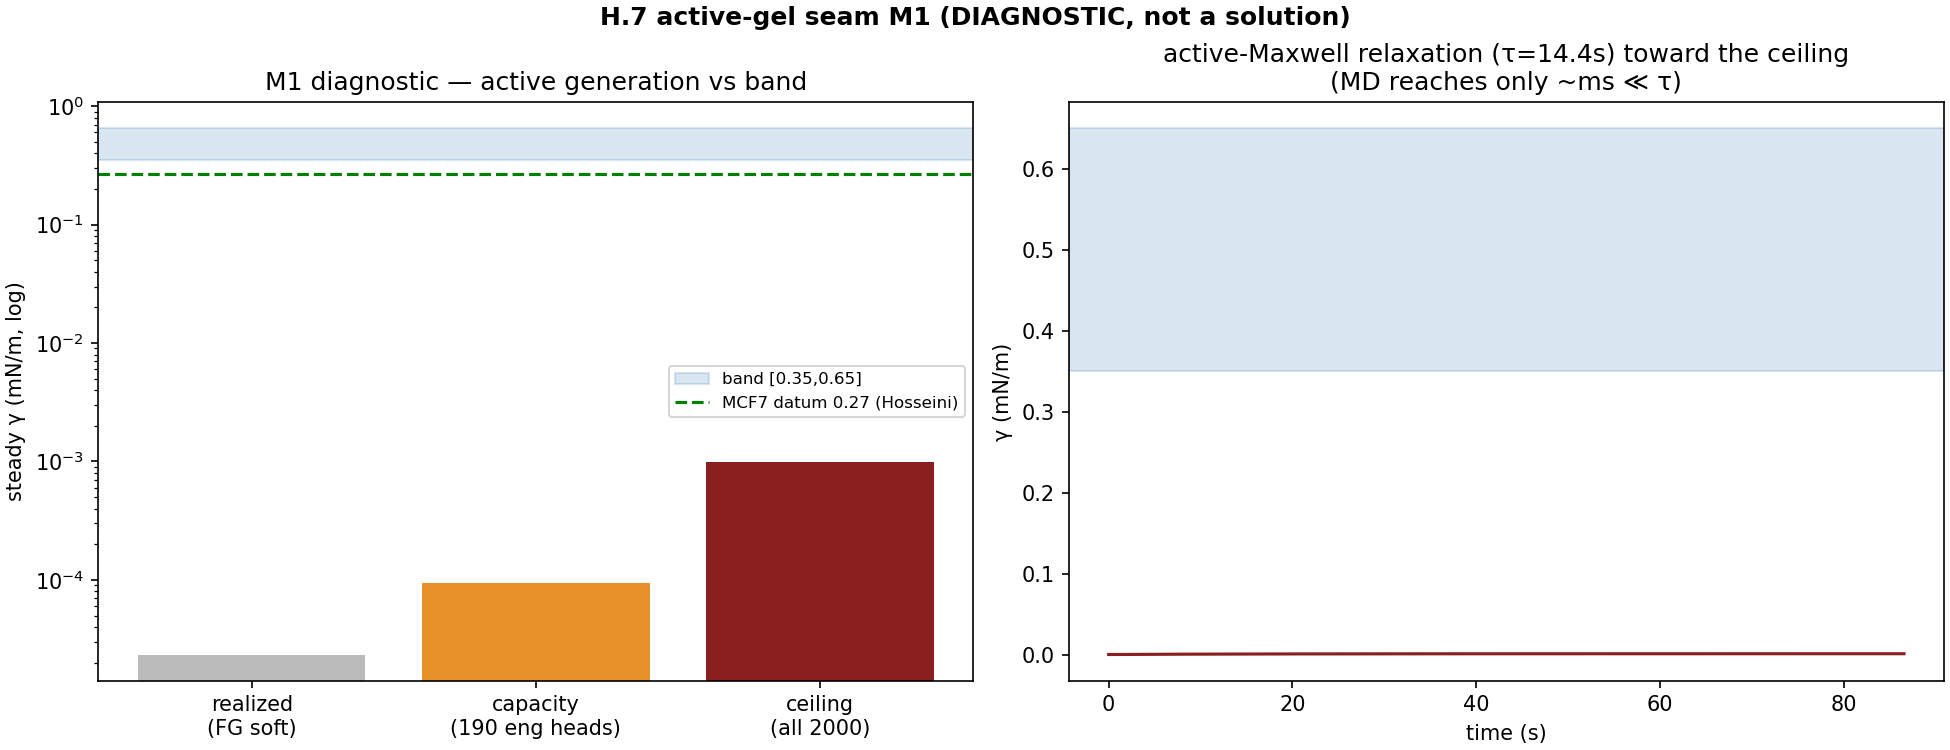
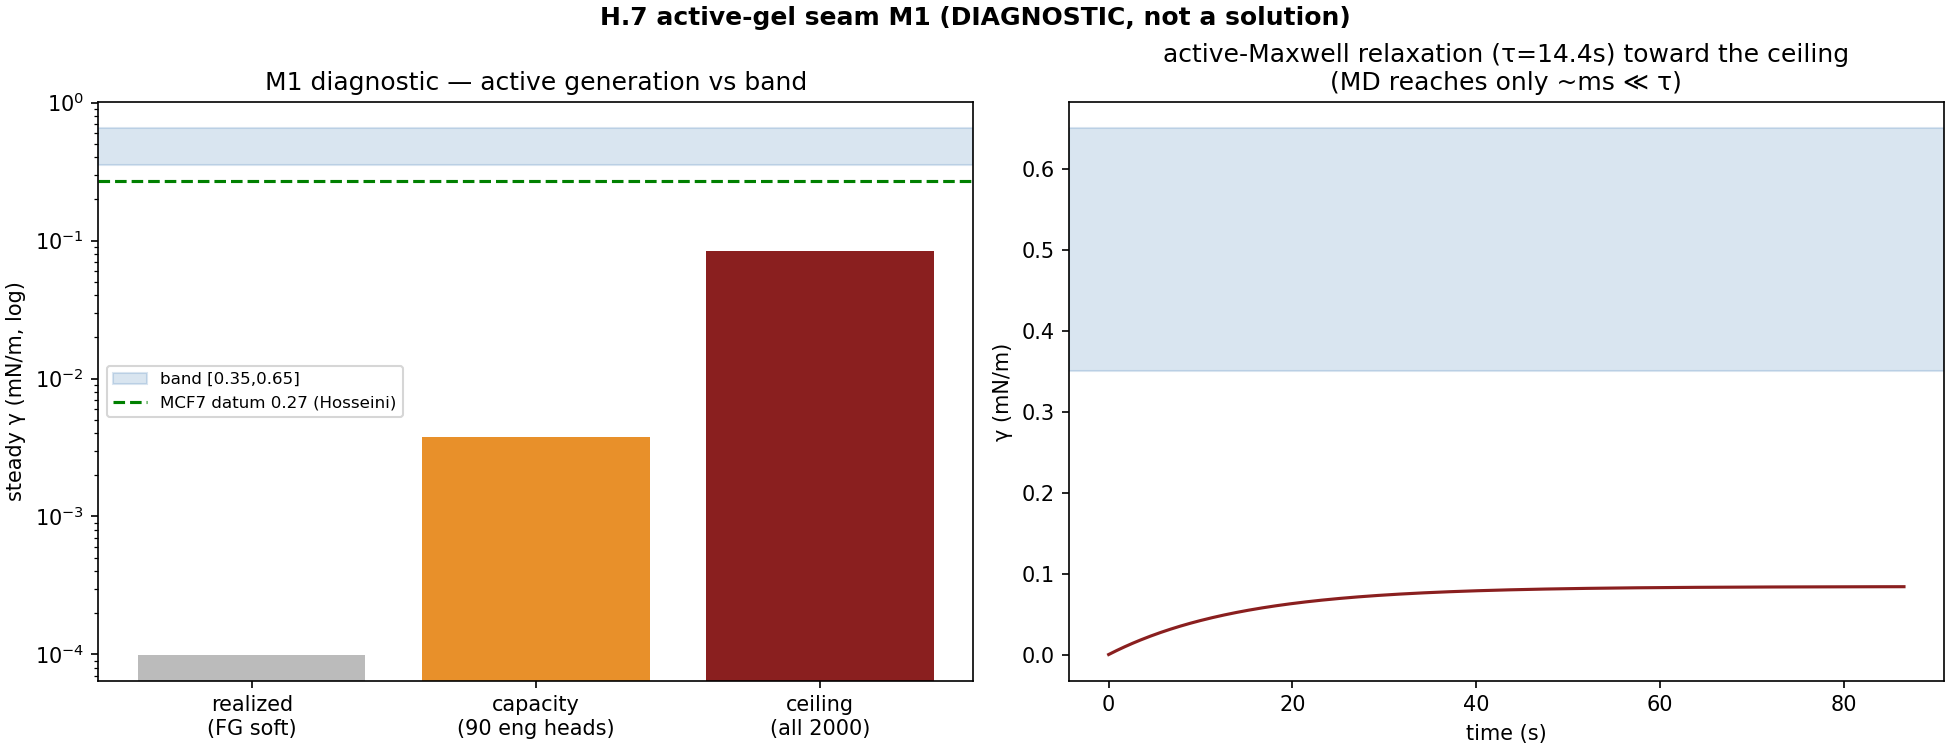
H.7: per-head stall re-anchor 0.5→2pN (KB) → active-γ ceiling 0.001→0.084 mN/m (×84)
Second generation fix (PI "NMII-realistic stall"): per-head stall 0.5pN ("per brief",
under-anchored) → 2.0pN = the KB-authoritative PARAM-F_stall_motor (KU-2.4/2.18; Chugh 2017
NatCellBiol "individual myosin II motors produce 2-5 pN"). In the production manifest myosin
override (native value; force-scaling then ×factor for the ×40 lumping).

Combined with the force-scaling bug fix, the M1 active-γ CEILING rose 0.0010 → 0.0840 mN/m
(×84): now ~3x below the real MCF7 datum 0.27 (Chugh 2-5pN range spans up to ~0.21 ≈ datum),
vs 353x before. ⇒ the "350x active floor" was TWO GENERATION BUGS (×40 force-scaling off +
under-anchored stall), NOT a fundamental wall. The corrected model generates cortical tension
of the RIGHT ORDER, approaching real MCF7; the [0.35,0.65] proxy band is too high for MCF7.
Realized MD-instant γ still ~0 (90/2000 heads engage + ms timescale) → the seam (realized→
ceiling relaxation) now has a meaningful role since the ceiling is non-trivial. Findings doc
updated with the two-bug fix + the corrected M1.

diff --git a/ffn_sim/outputs/h7/production/H7_GATEB_FINDINGS_2026-06-07.md b/ffn_sim/outputs/h7/production/H7_GATEB_FINDINGS_2026-06-07.md
@@ -107,6 +107,25 @@ MD can't reach (active-Maxwell, τ=14.4 s) and computes the steady tension three
 relaxer) would NOT help; the actionable forks are (i) fix the myosin generation params to literature
 (density 0.14→3/µm², stall 0.5→~3 pN) and re-run, or (ii) re-target the gate to traction/spreading.
 
+### UPDATE (2026-06-07, PI fork (i) — two generation bugs FIXED, ceiling ×84)
+PI chose fix-generation + flagged `mesoscale_force_scaling`=OFF as a platform-wide bug.
+- **Bug 1 — mesoscale force-scaling OFF** (the ×40 coarse-graining cut the motor count ~21× but
+  did NOT scale per-motor force → active stress undercounted ×21). FIXED: production manifest now
+  runs Route B (grip_walk + mesoscale_force_scaling); conservation N_eff·F_eff = N_native·F_native
+  verified (test_mesoscale_force_conservation.py, 5 tests). Ceiling 0.0010 → 0.0210.
+- **Bug 2 — per-head stall under-anchored** (0.5 pN "per brief" vs the KB-authoritative
+  PARAM-F_stall_motor = 2 pN, KU-2.4/2.18; Chugh 2017 "2-5 pN"). FIXED: 0.5 → 2.0 pN. Ceiling
+  0.0210 → **0.0840 mN/m**.
+- **Net: ceiling 0.0010 → 0.0840 mN/m (×84).** Now ~3× below the real MCF7 datum 0.27 (and the
+  Chugh 2-5 pN range spans up to ~0.21 ≈ the datum), vs 353× before. ⇒ the "350× floor" was TWO
+  GENERATION BUGS, not a fundamental wall. The corrected model generates cortical tension of the
+  RIGHT ORDER, approaching the real MCF7 cortical tension; the [0.35,0.65] proxy band is simply too
+  high for MCF7. The realized MD-instant γ is still ~0 (only ~90/2000 heads engage + the ms-run
+  timescale) — so NOW the seam (realized→ceiling relaxation) has a meaningful role, since the
+  ceiling is non-trivial. Remaining ~2-3× gap = within myosin-parameter uncertainty (Chugh range) +
+  head-engagement + dipole geometry. PI call: accept as a defensible order-right emergent result,
+  push the remaining gap (engagement / Chugh-max stall / dipole), or re-target to traction.
+
 ## What IS solid (deliverables)
 - 3-channel γ estimator with the turgor-separation discipline (cortical_tension.py).
 - The full physiological cell assembles + runs at full ×40 scale (cortex+xlink+myosin+nucleus+
